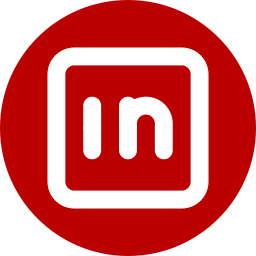
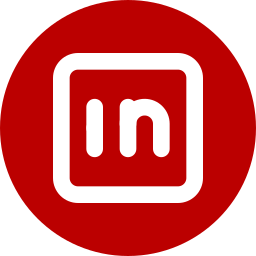
Firmas con Linkedin

diff --git a/DGE/Fima Subdirectora Apoyo.html b/DGE/Fima Subdirectora Apoyo.html
@@ -62,6 +62,10 @@
               <img alt="⌨" moz-do-not-send="true" style="font-size: 16pt; max-width: 35px; max-height: 35px; display: flex; align-items: center; justify-content: center" height="35" width="35" src="https://raw.githubusercontent.com/ComicIvans/mail-signatures/500c2eddbd4d90650dbbf575e584e780844fb4cb/DGE/img/GitHub.png" />
             </a>
           
+            <a href="https://www.linkedin.com/company/delegación-general-de-estudiantes-ugr" style="border-radius: 50%; color: inherit; text-decoration: none; margin-right: 5px; min-width: 35px; min-height: 35px; display: flex; align-items: center; justify-content: center; background-color: white; font-weight: bold; font-size: 14pt">
+              <img alt="🎓" moz-do-not-send="true" style="font-size: 16pt; max-width: 35px; max-height: 35px; display: flex; align-items: center; justify-content: center" height="35" width="35" src="https://raw.githubusercontent.com/ComicIvans/mail-signatures/1b68c92a2c8a8497ab717338e85d7d9a906216c9/DGE/img/Linkedin.png" />
+            </a>
+          
         </div>
       
     </div>

diff --git a/DGE/Firma Académico.html b/DGE/Firma Académico.html
@@ -62,6 +62,10 @@
               <img alt="⌨" moz-do-not-send="true" style="font-size: 16pt; max-width: 35px; max-height: 35px; display: flex; align-items: center; justify-content: center" height="35" width="35" src="https://raw.githubusercontent.com/ComicIvans/mail-signatures/500c2eddbd4d90650dbbf575e584e780844fb4cb/DGE/img/GitHub.png" />
             </a>
           
+            <a href="https://www.linkedin.com/company/delegación-general-de-estudiantes-ugr" style="border-radius: 50%; color: inherit; text-decoration: none; margin-right: 5px; min-width: 35px; min-height: 35px; display: flex; align-items: center; justify-content: center; background-color: white; font-weight: bold; font-size: 14pt">
+              <img alt="🎓" moz-do-not-send="true" style="font-size: 16pt; max-width: 35px; max-height: 35px; display: flex; align-items: center; justify-content: center" height="35" width="35" src="https://raw.githubusercontent.com/ComicIvans/mail-signatures/1b68c92a2c8a8497ab717338e85d7d9a906216c9/DGE/img/Linkedin.png" />
+            </a>
+          
         </div>
       
     </div>

diff --git a/DGE/Firma Coordinador.html b/DGE/Firma Coordinador.html
@@ -62,6 +62,10 @@
               <img alt="⌨" moz-do-not-send="true" style="font-size: 16pt; max-width: 35px; max-height: 35px; display: flex; align-items: center; justify-content: center" height="35" width="35" src="https://raw.githubusercontent.com/ComicIvans/mail-signatures/500c2eddbd4d90650dbbf575e584e780844fb4cb/DGE/img/GitHub.png" />
             </a>
           
+            <a href="https://www.linkedin.com/company/delegación-general-de-estudiantes-ugr" style="border-radius: 50%; color: inherit; text-decoration: none; margin-right: 5px; min-width: 35px; min-height: 35px; display: flex; align-items: center; justify-content: center; background-color: white; font-weight: bold; font-size: 14pt">
+              <img alt="🎓" moz-do-not-send="true" style="font-size: 16pt; max-width: 35px; max-height: 35px; display: flex; align-items: center; justify-content: center" height="35" width="35" src="https://raw.githubusercontent.com/ComicIvans/mail-signatures/1b68c92a2c8a8497ab717338e85d7d9a906216c9/DGE/img/Linkedin.png" />
+            </a>
+          
         </div>
       
     </div>

diff --git a/DGE/Firma Director Actividades.html b/DGE/Firma Director Actividades.html
@@ -62,6 +62,10 @@
               <img alt="⌨" moz-do-not-send="true" style="font-size: 16pt; max-width: 35px; max-height: 35px; display: flex; align-items: center; justify-content: center" height="35" width="35" src="https://raw.githubusercontent.com/ComicIvans/mail-signatures/500c2eddbd4d90650dbbf575e584e780844fb4cb/DGE/img/GitHub.png" />
             </a>
           
+            <a href="https://www.linkedin.com/company/delegación-general-de-estudiantes-ugr" style="border-radius: 50%; color: inherit; text-decoration: none; margin-right: 5px; min-width: 35px; min-height: 35px; display: flex; align-items: center; justify-content: center; background-color: white; font-weight: bold; font-size: 14pt">
+              <img alt="🎓" moz-do-not-send="true" style="font-size: 16pt; max-width: 35px; max-height: 35px; display: flex; align-items: center; justify-content: center" height="35" width="35" src="https://raw.githubusercontent.com/ComicIvans/mail-signatures/1b68c92a2c8a8497ab717338e85d7d9a906216c9/DGE/img/Linkedin.png" />
+            </a>
+          
         </div>
       
     </div>

diff --git a/DGE/Firma Director Calidad.html b/DGE/Firma Director Calidad.html
@@ -62,6 +62,10 @@
               <img alt="⌨" moz-do-not-send="true" style="font-size: 16pt; max-width: 35px; max-height: 35px; display: flex; align-items: center; justify-content: center" height="35" width="35" src="https://raw.githubusercontent.com/ComicIvans/mail-signatures/500c2eddbd4d90650dbbf575e584e780844fb4cb/DGE/img/GitHub.png" />
             </a>
           
+            <a href="https://www.linkedin.com/company/delegación-general-de-estudiantes-ugr" style="border-radius: 50%; color: inherit; text-decoration: none; margin-right: 5px; min-width: 35px; min-height: 35px; display: flex; align-items: center; justify-content: center; background-color: white; font-weight: bold; font-size: 14pt">
+              <img alt="🎓" moz-do-not-send="true" style="font-size: 16pt; max-width: 35px; max-height: 35px; display: flex; align-items: center; justify-content: center" height="35" width="35" src="https://raw.githubusercontent.com/ComicIvans/mail-signatures/1b68c92a2c8a8497ab717338e85d7d9a906216c9/DGE/img/Linkedin.png" />
+            </a>
+          
         </div>
       
     </div>

diff --git a/DGE/Firma Director Externas.html b/DGE/Firma Director Externas.html
@@ -62,6 +62,10 @@
               <img alt="⌨" moz-do-not-send="true" style="font-size: 16pt; max-width: 35px; max-height: 35px; display: flex; align-items: center; justify-content: center" height="35" width="35" src="https://raw.githubusercontent.com/ComicIvans/mail-signatures/500c2eddbd4d90650dbbf575e584e780844fb4cb/DGE/img/GitHub.png" />
             </a>
           
+            <a href="https://www.linkedin.com/company/delegación-general-de-estudiantes-ugr" style="border-radius: 50%; color: inherit; text-decoration: none; margin-right: 5px; min-width: 35px; min-height: 35px; display: flex; align-items: center; justify-content: center; background-color: white; font-weight: bold; font-size: 14pt">
+              <img alt="🎓" moz-do-not-send="true" style="font-size: 16pt; max-width: 35px; max-height: 35px; display: flex; align-items: center; justify-content: center" height="35" width="35" src="https://raw.githubusercontent.com/ComicIvans/mail-signatures/1b68c92a2c8a8497ab717338e85d7d9a906216c9/DGE/img/Linkedin.png" />
+            </a>
+          
         </div>
       
     </div>

diff --git a/DGE/Firma Director Formación.html b/DGE/Firma Director Formación.html
@@ -62,6 +62,10 @@
               <img alt="⌨" moz-do-not-send="true" style="font-size: 16pt; max-width: 35px; max-height: 35px; display: flex; align-items: center; justify-content: center" height="35" width="35" src="https://raw.githubusercontent.com/ComicIvans/mail-signatures/500c2eddbd4d90650dbbf575e584e780844fb4cb/DGE/img/GitHub.png" />
             </a>
           
+            <a href="https://www.linkedin.com/company/delegación-general-de-estudiantes-ugr" style="border-radius: 50%; color: inherit; text-decoration: none; margin-right: 5px; min-width: 35px; min-height: 35px; display: flex; align-items: center; justify-content: center; background-color: white; font-weight: bold; font-size: 14pt">
+              <img alt="🎓" moz-do-not-send="true" style="font-size: 16pt; max-width: 35px; max-height: 35px; display: flex; align-items: center; justify-content: center" height="35" width="35" src="https://raw.githubusercontent.com/ComicIvans/mail-signatures/1b68c92a2c8a8497ab717338e85d7d9a906216c9/DGE/img/Linkedin.png" />
+            </a>
+          
         </div>
       
     </div>

diff --git a/DGE/Firma Director Informes.html b/DGE/Firma Director Informes.html
@@ -62,6 +62,10 @@
               <img alt="⌨" moz-do-not-send="true" style="font-size: 16pt; max-width: 35px; max-height: 35px; display: flex; align-items: center; justify-content: center" height="35" width="35" src="https://raw.githubusercontent.com/ComicIvans/mail-signatures/500c2eddbd4d90650dbbf575e584e780844fb4cb/DGE/img/GitHub.png" />
             </a>
           
+            <a href="https://www.linkedin.com/company/delegación-general-de-estudiantes-ugr" style="border-radius: 50%; color: inherit; text-decoration: none; margin-right: 5px; min-width: 35px; min-height: 35px; display: flex; align-items: center; justify-content: center; background-color: white; font-weight: bold; font-size: 14pt">
+              <img alt="🎓" moz-do-not-send="true" style="font-size: 16pt; max-width: 35px; max-height: 35px; display: flex; align-items: center; justify-content: center" height="35" width="35" src="https://raw.githubusercontent.com/ComicIvans/mail-signatures/1b68c92a2c8a8497ab717338e85d7d9a906216c9/DGE/img/Linkedin.png" />
+            </a>
+          
         </div>
       
     </div>

diff --git a/DGE/Firma Director MIC.html b/DGE/Firma Director MIC.html
@@ -62,6 +62,10 @@
               <img alt="⌨" moz-do-not-send="true" style="font-size: 16pt; max-width: 35px; max-height: 35px; display: flex; align-items: center; justify-content: center" height="35" width="35" src="https://raw.githubusercontent.com/ComicIvans/mail-signatures/500c2eddbd4d90650dbbf575e584e780844fb4cb/DGE/img/GitHub.png" />
             </a>
           
+            <a href="https://www.linkedin.com/company/delegación-general-de-estudiantes-ugr" style="border-radius: 50%; color: inherit; text-decoration: none; margin-right: 5px; min-width: 35px; min-height: 35px; display: flex; align-items: center; justify-content: center; background-color: white; font-weight: bold; font-size: 14pt">
+              <img alt="🎓" moz-do-not-send="true" style="font-size: 16pt; max-width: 35px; max-height: 35px; display: flex; align-items: center; justify-content: center" height="35" width="35" src="https://raw.githubusercontent.com/ComicIvans/mail-signatures/1b68c92a2c8a8497ab717338e85d7d9a906216c9/DGE/img/Linkedin.png" />
+            </a>
+          
         </div>
       
     </div>

diff --git a/DGE/Firma Director Melilla.html b/DGE/Firma Director Melilla.html
@@ -62,6 +62,10 @@
               <img alt="⌨" moz-do-not-send="true" style="font-size: 16pt; max-width: 35px; max-height: 35px; display: flex; align-items: center; justify-content: center" height="35" width="35" src="https://raw.githubusercontent.com/ComicIvans/mail-signatures/500c2eddbd4d90650dbbf575e584e780844fb4cb/DGE/img/GitHub.png" />
             </a>
           
+            <a href="https://www.linkedin.com/company/delegación-general-de-estudiantes-ugr" style="border-radius: 50%; color: inherit; text-decoration: none; margin-right: 5px; min-width: 35px; min-height: 35px; display: flex; align-items: center; justify-content: center; background-color: white; font-weight: bold; font-size: 14pt">
+              <img alt="🎓" moz-do-not-send="true" style="font-size: 16pt; max-width: 35px; max-height: 35px; display: flex; align-items: center; justify-content: center" height="35" width="35" src="https://raw.githubusercontent.com/ComicIvans/mail-signatures/1b68c92a2c8a8497ab717338e85d7d9a906216c9/DGE/img/Linkedin.png" />
+            </a>
+          
         </div>
       
     </div>

diff --git a/DGE/Firma Director Quejas.html b/DGE/Firma Director Quejas.html
@@ -62,6 +62,10 @@
               <img alt="⌨" moz-do-not-send="true" style="font-size: 16pt; max-width: 35px; max-height: 35px; display: flex; align-items: center; justify-content: center" height="35" width="35" src="https://raw.githubusercontent.com/ComicIvans/mail-signatures/500c2eddbd4d90650dbbf575e584e780844fb4cb/DGE/img/GitHub.png" />
             </a>
           
+            <a href="https://www.linkedin.com/company/delegación-general-de-estudiantes-ugr" style="border-radius: 50%; color: inherit; text-decoration: none; margin-right: 5px; min-width: 35px; min-height: 35px; display: flex; align-items: center; justify-content: center; background-color: white; font-weight: bold; font-size: 14pt">
+              <img alt="🎓" moz-do-not-send="true" style="font-size: 16pt; max-width: 35px; max-height: 35px; display: flex; align-items: center; justify-content: center" height="35" width="35" src="https://raw.githubusercontent.com/ComicIvans/mail-signatures/1b68c92a2c8a8497ab717338e85d7d9a906216c9/DGE/img/Linkedin.png" />
+            </a>
+          
         </div>
       
     </div>

diff --git a/DGE/Firma Director Reglamento.html b/DGE/Firma Director Reglamento.html
@@ -62,6 +62,10 @@
               <img alt="⌨" moz-do-not-send="true" style="font-size: 16pt; max-width: 35px; max-height: 35px; display: flex; align-items: center; justify-content: center" height="35" width="35" src="https://raw.githubusercontent.com/ComicIvans/mail-signatures/500c2eddbd4d90650dbbf575e584e780844fb4cb/DGE/img/GitHub.png" />
             </a>
           
+            <a href="https://www.linkedin.com/company/delegación-general-de-estudiantes-ugr" style="border-radius: 50%; color: inherit; text-decoration: none; margin-right: 5px; min-width: 35px; min-height: 35px; display: flex; align-items: center; justify-content: center; background-color: white; font-weight: bold; font-size: 14pt">
+              <img alt="🎓" moz-do-not-send="true" style="font-size: 16pt; max-width: 35px; max-height: 35px; display: flex; align-items: center; justify-content: center" height="35" width="35" src="https://raw.githubusercontent.com/ComicIvans/mail-signatures/1b68c92a2c8a8497ab717338e85d7d9a906216c9/DGE/img/Linkedin.png" />
+            </a>
+          
         </div>
       
     </div>
